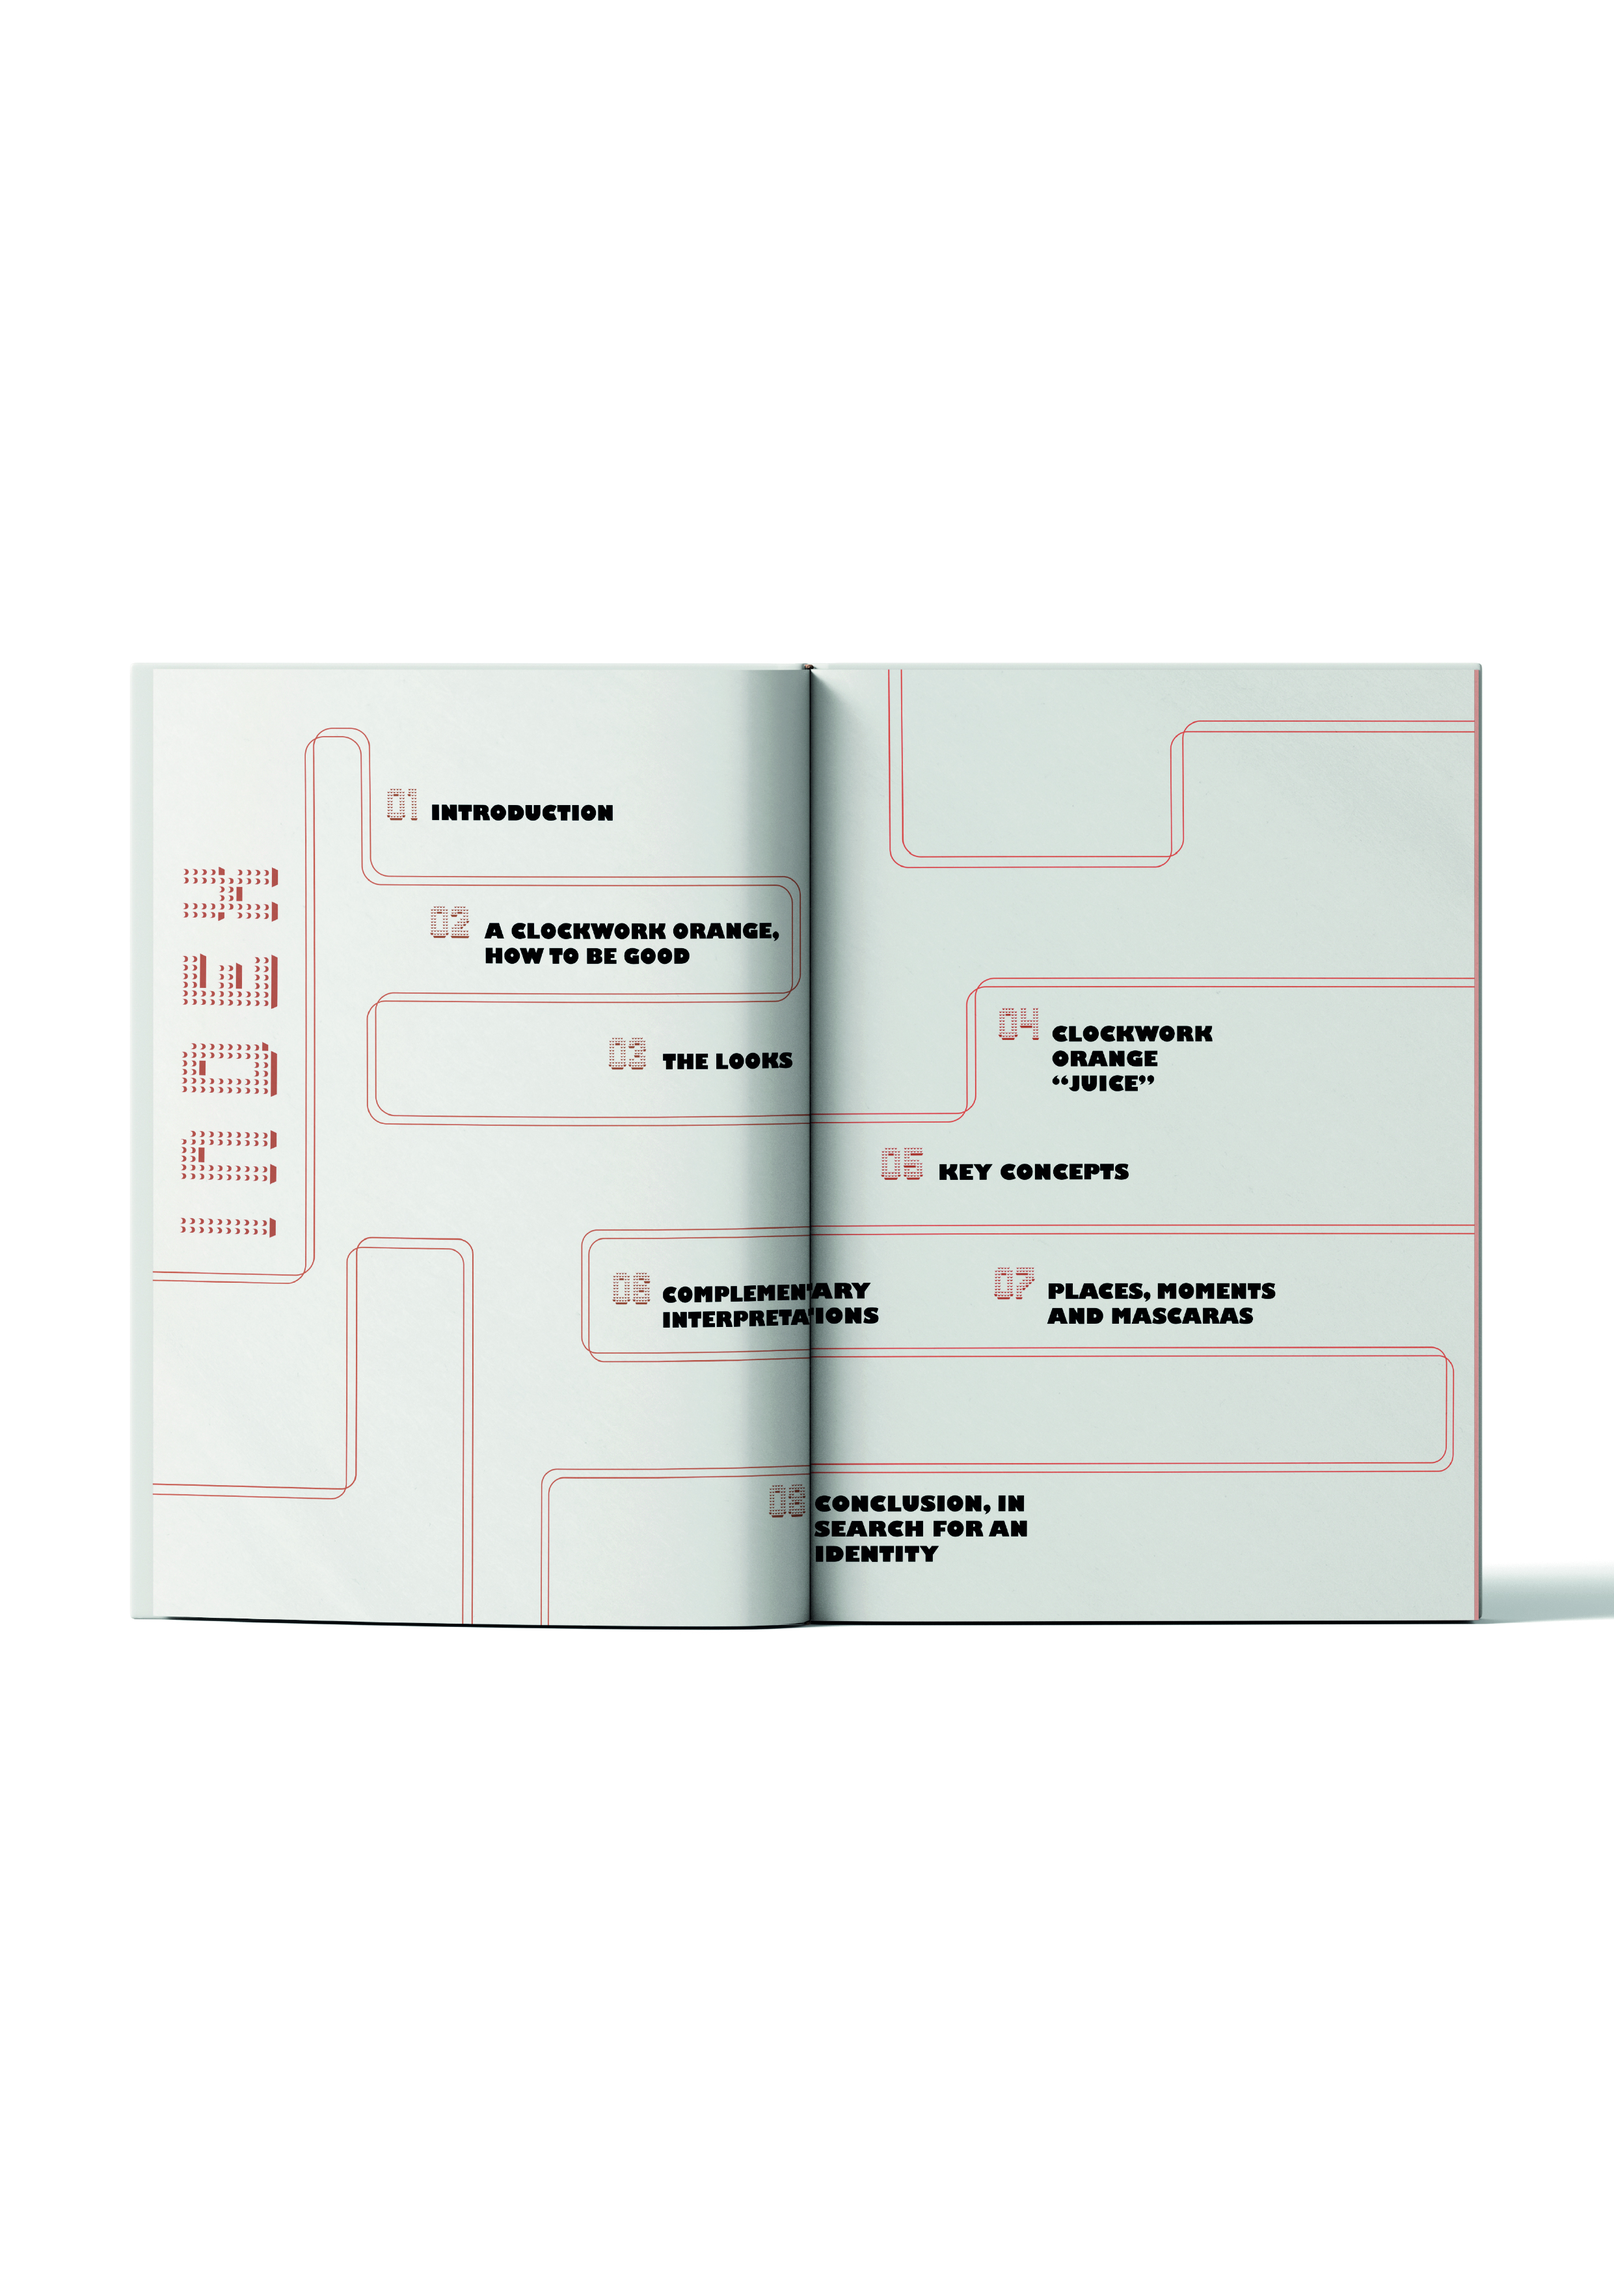
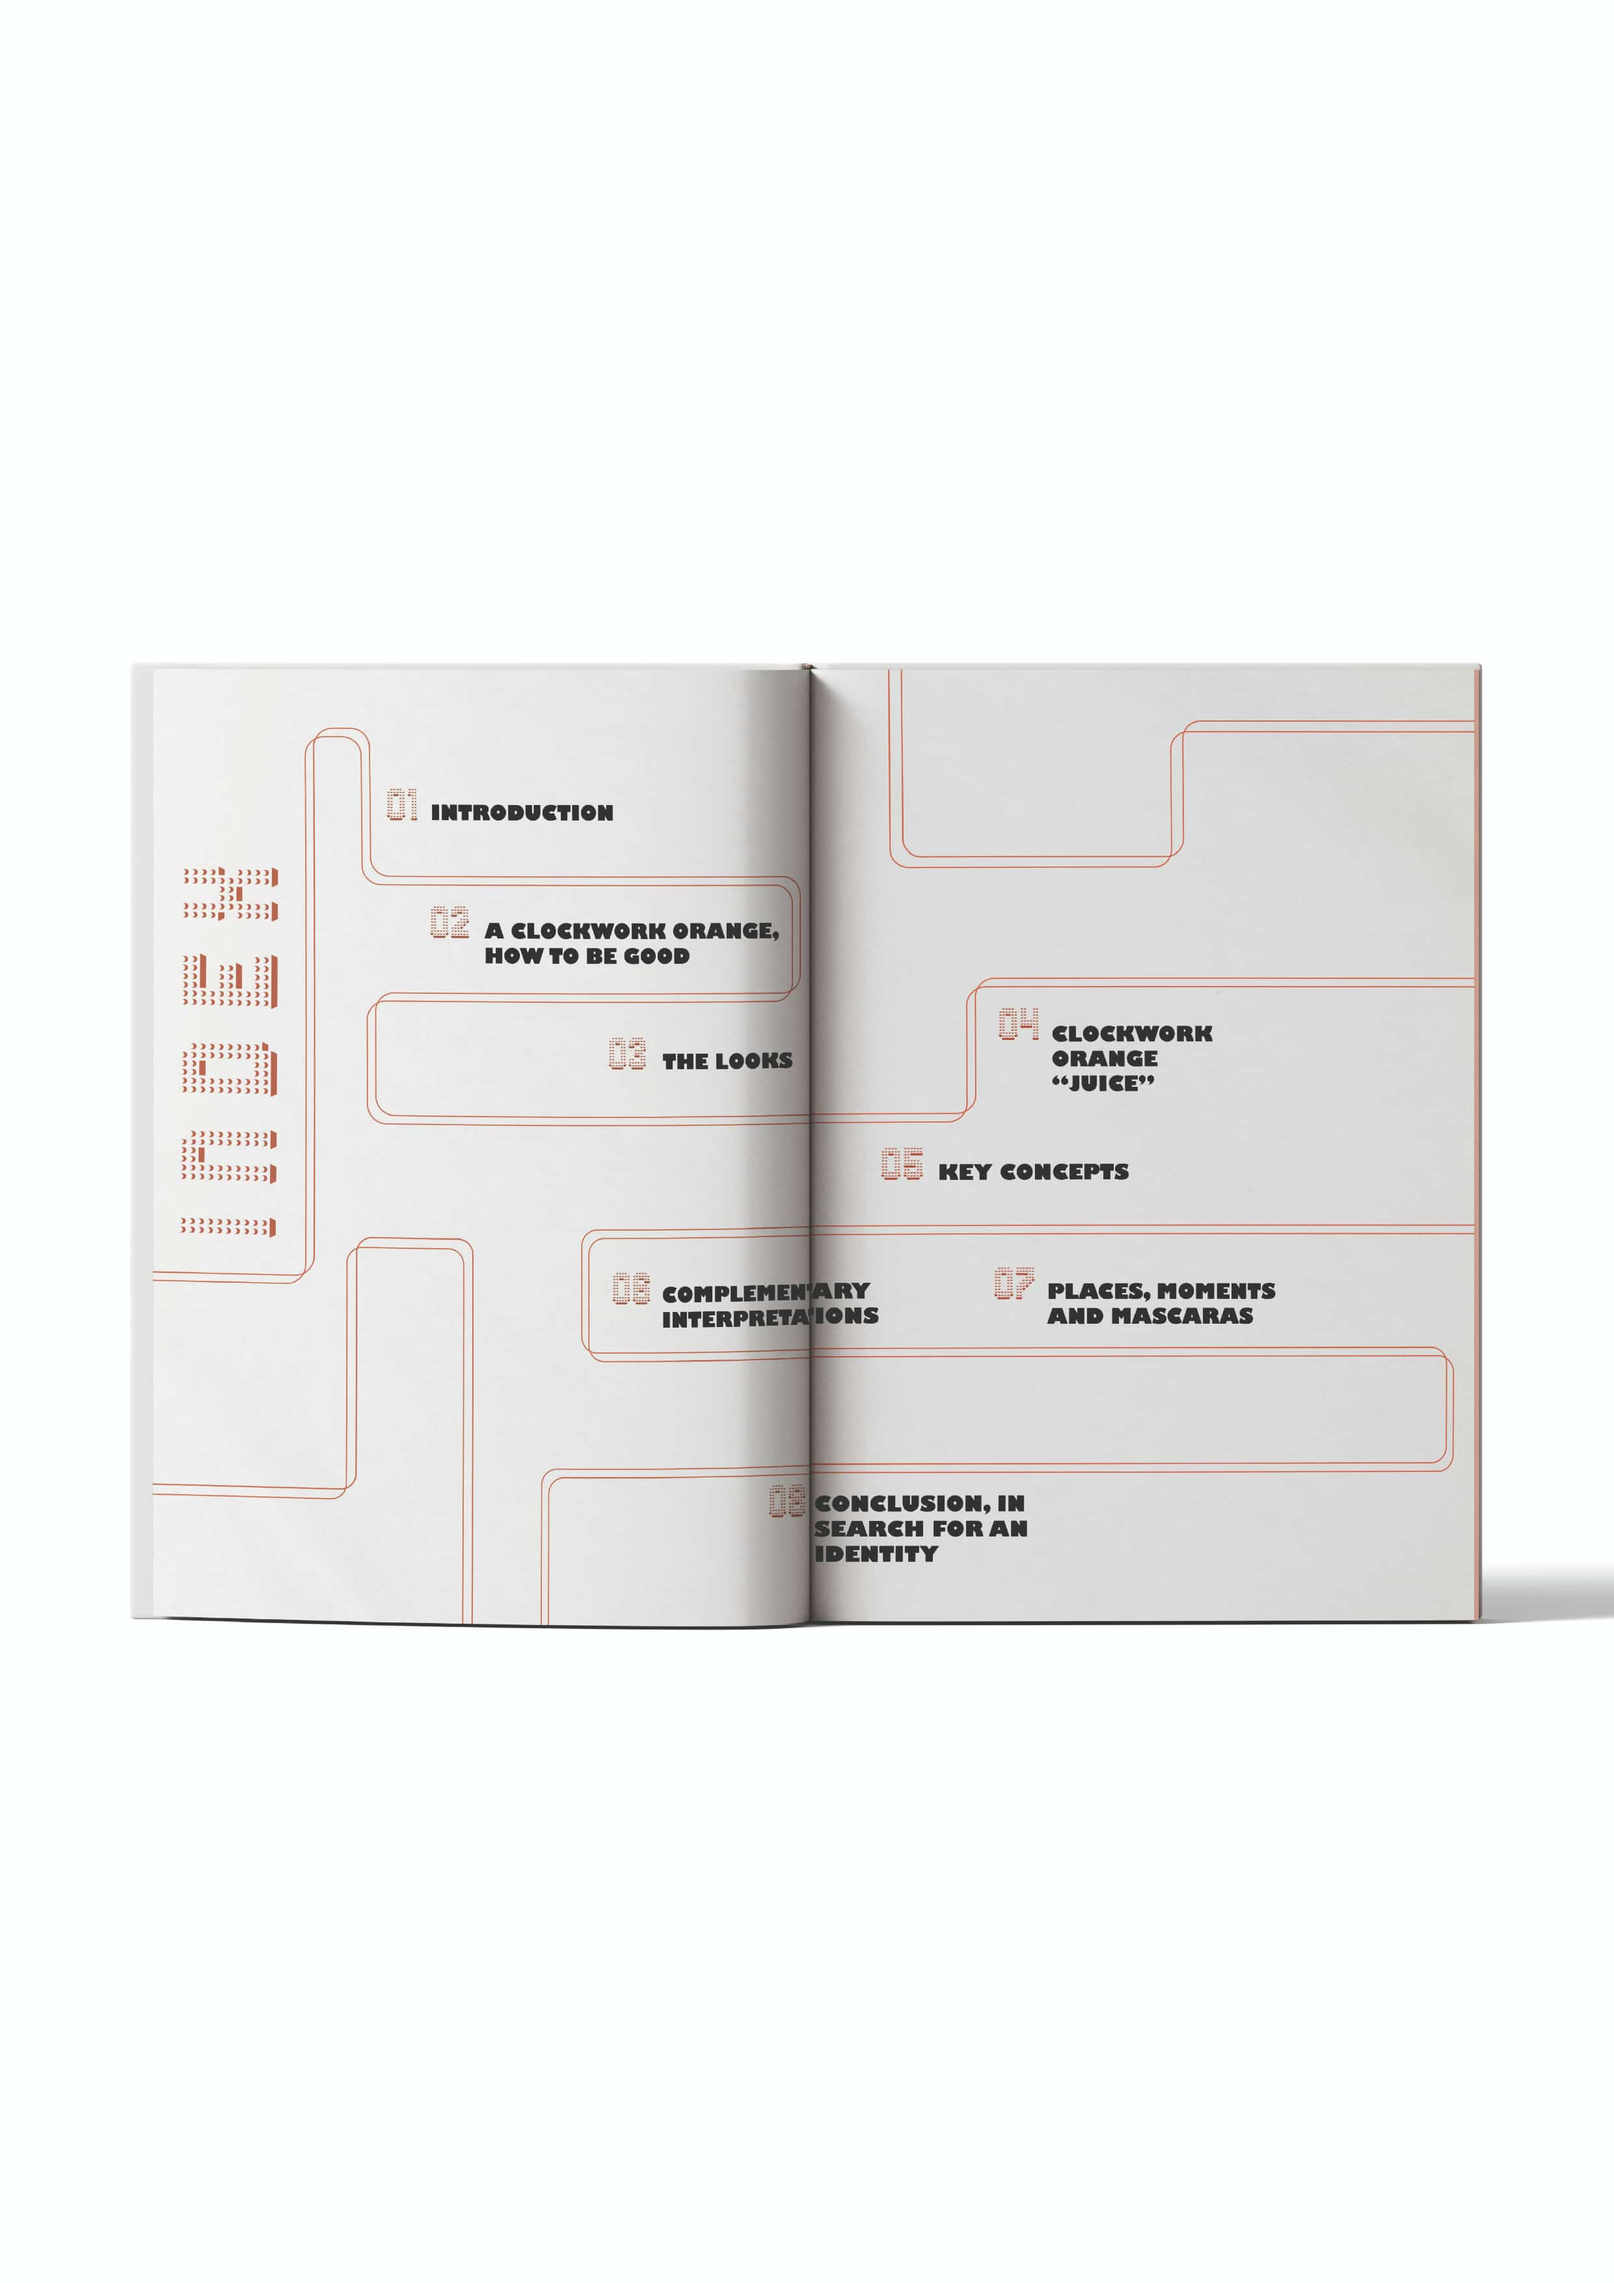
ultimos ajustes compresion jpgs bajar peso

diff --git a/index.html b/index.html
@@ -395,7 +395,7 @@
 						<article class="project-card">
 							<a href="#branding" class="project-link">
 								<div class="project-image">
-									<img src="assets/img/carrusel/17.jpg" alt="Branding projects" loading="lazy" />
+									<img src="assets/img/Branding/muid/7.jpg" alt="Branding projects" loading="lazy" />
 								</div>
 								<div class="project-content">
 									<h3>Branding</h3>
@@ -461,11 +461,11 @@
 
 						<div class="editorial-carousel">
 							<div class="editorial-track">
-								<img src="assets/img/editorial/muid/2.png" alt="Muid magazine spread 1">
-								<img src="assets/img/editorial/muid/8.png" alt="Muid magazine spread 2">
-								<img src="assets/img/editorial/muid/4.png" alt="Muid magazine spread 3">
-								<img src="assets/img/editorial/muid/7.png" alt="Muid magazine spread 4">
-								<img src="assets/img/editorial/muid/todas.png" alt="Muid magazine collection overview">
+								<img src="assets/img/editorial/muid/2.jpg" alt="Muid magazine spread 1">
+								<img src="assets/img/editorial/muid/8.jpg" alt="Muid magazine spread 2">
+								<img src="assets/img/editorial/muid/4.jpg" alt="Muid magazine spread 3">
+								<img src="assets/img/editorial/muid/7.jpg" alt="Muid magazine spread 4">
+								<img src="assets/img/editorial/muid/todas.jpg" alt="Muid magazine collection overview">
 							</div>
 						</div>
 					</article>
@@ -563,10 +563,10 @@
 
 						<div class="illustration-carousel">
 							<div class="illustration-track">
-								<img src="assets/img/ilustracion/tadeo1.png" alt="Illustration project 1 image 1">
-								<img src="assets/img/ilustracion/tadeo2.png" alt="Illustration project 1 image 2">
-								<img src="assets/img/ilustracion/tadeo3.png" alt="Illustration project 1 image 3">
-								<img src="assets/img/ilustracion/tadeo4.png" alt="Illustration project 1 image 4">
+								<img src="assets/img/ilustracion/tadeo1.jpg" alt="Illustration project 1 image 1">
+								<img src="assets/img/ilustracion/tadeo2.jpg" alt="Illustration project 1 image 2">
+								<img src="assets/img/ilustracion/tadeo3.jpg" alt="Illustration project 1 image 3">
+								<img src="assets/img/ilustracion/tadeo4.jpg" alt="Illustration project 1 image 4">
 							</div>
 						</div>
 					</article>
@@ -593,13 +593,13 @@
 
 						<div class="illustration-carousel">
 							<div class="illustration-track">
-								<img src="assets/img/ilustracion/5.png" alt="Illustration project 1 image 1">
-								<img src="assets/img/ilustracion/2.png" alt="Illustration project 1 image 2">
-								<img src="assets/img/ilustracion/1.png" alt="Illustration project 1 image 3">
-								<img src="assets/img/ilustracion/4.png" alt="Illustration project 1 image 4">
-								<img src="assets/img/ilustracion/3.png" alt="Illustration project 1 image 5">
-								<img src="assets/img/ilustracion/6.png" alt="Illustration project 1 image 4">
-								<img src="assets/img/ilustracion/7.png" alt="Illustration project 1 image 5">
+								<img src="assets/img/ilustracion/5.jpg" alt="Illustration project 1 image 1">
+								<img src="assets/img/ilustracion/2.jpg" alt="Illustration project 1 image 2">
+								<img src="assets/img/ilustracion/1.jpg" alt="Illustration project 1 image 3">
+								<img src="assets/img/ilustracion/4.jpg" alt="Illustration project 1 image 4">
+								<img src="assets/img/ilustracion/3.jpg" alt="Illustration project 1 image 5">
+								<img src="assets/img/ilustracion/6.jpg" alt="Illustration project 1 image 4">
+								<img src="assets/img/ilustracion/7.jpg" alt="Illustration project 1 image 5">
 							</div>
 					</article>
 
@@ -692,12 +692,12 @@
 
 						<div class="branding-carousel">
 							<div class="branding-track">
-								<img src="assets/img/Branding/1.png" alt="Branding project one image 1">
-								<img src="assets/img/Branding/2.png" alt="Branding project one image 2">
-								<img src="assets/img/Branding/3.png" alt="Branding project one image 3">
-								<img src="assets/img/Branding/4.png" alt="Branding project one image 4">
-								<img src="assets/img/Branding/5.png" alt="Branding project one image 5">
-								<img src="assets/img/Branding/6.png" alt="Branding project one image 6">
+								<img src="assets/img/Branding/1.jpg" alt="Branding project one image 1">
+								<img src="assets/img/Branding/2.jpg" alt="Branding project one image 2">
+								<img src="assets/img/Branding/3.jpg" alt="Branding project one image 3">
+								<img src="assets/img/Branding/4.jpg" alt="Branding project one image 4">
+								<img src="assets/img/Branding/5.jpg" alt="Branding project one image 5">
+								<img src="assets/img/Branding/6.webp" alt="Branding project one image 6">
 							</div>
 						</div>
 					</article>
@@ -718,12 +718,12 @@
 
 						<div class="branding-carousel">
 							<div class="branding-track">
-								<img src="assets/img/Branding/muid/1.png" alt="Branding project two image 1">
-								<img src="assets/img/Branding/muid/2.png" alt="Branding project two image 2">
-								<img src="assets/img/Branding/muid/3.png" alt="Branding project two image 3">
-								<img src="assets/img/Branding/muid/4.png" alt="Branding project two image 4">
-								<img src="assets/img/Branding/muid/5.png" alt="Branding project two image 5">
-								<img src="assets/img/Branding/muid/6.png" alt="Branding project two image 6">
+								<img src="assets/img/Branding/muid/1.jpg" alt="Branding project two image 1">
+								<img src="assets/img/Branding/muid/2.jpg" alt="Branding project two image 2">
+								<img src="assets/img/Branding/muid/3.jpg" alt="Branding project two image 3">
+								<img src="assets/img/Branding/muid/4.jpg" alt="Branding project two image 4">
+								<img src="assets/img/Branding/muid/5.jpg" alt="Branding project two image 5">
+								<img src="assets/img/Branding/muid/6.jpg" alt="Branding project two image 6">
 							</div>
 						</div>
 					</article>
